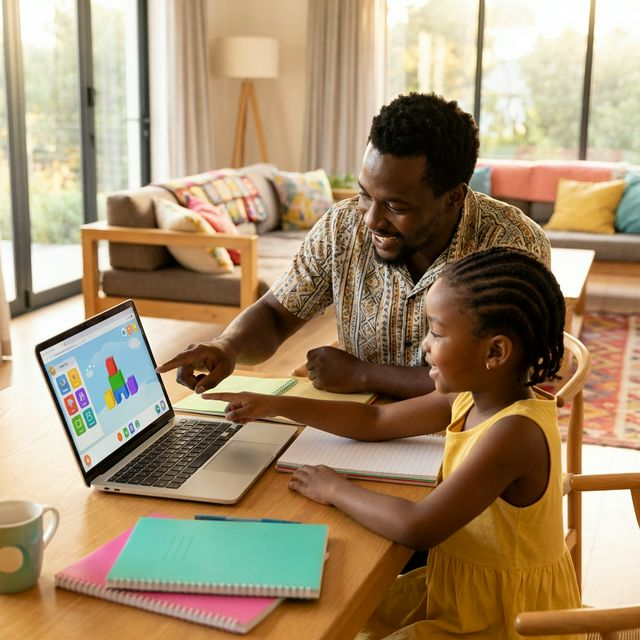
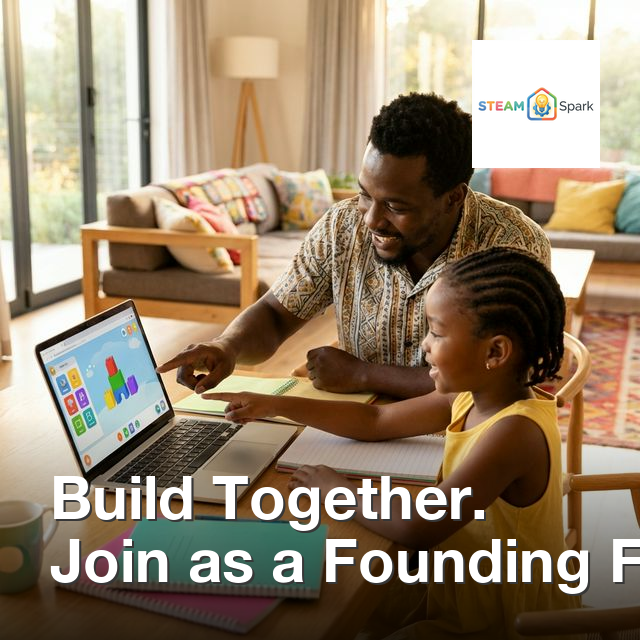
feat: Finalize branded social media assets as primary files

diff --git a/scripts/generate_social_assets.py b/scripts/generate_social_assets.py
@@ -4,14 +4,15 @@ from PIL import Image, ImageDraw, ImageFont
 # Configuration
 ASSET_DIR = "marketing/spark_100_campaign/assets"
 LOGO_PATH = os.path.join(ASSET_DIR, "steam_spark_logo.png")
-OUTPUT_SUFFIX = "_social"
 
-# Text Mappings
+# Text Mappings (Base Name -> Text)
+# Input file will be {base_name}_raw.png
+# Output file will be {base_name}.png
 ASSETS = {
-    "co_creation_hero.png": "Build Together.\nJoin as a Founding Family.",
-    "future_impact_hero.png": "Engineering Her Future\nwith STEAM Spark.",
-    "curiosity_science_hero.png": "Igniting the Spark\nof Curiosity.",
-    "family_pride_hero.png": "See Their Progress.\nShare Their Pride."
+    "co_creation_hero": "Build Together.\nJoin as a Founding Family.",
+    "future_impact_hero": "Engineering Her Future\nwith STEAM Spark.",
+    "curiosity_science_hero": "Igniting the Spark\nof Curiosity.",
+    "family_pride_hero": "See Their Progress.\nShare Their Pride."
 }
 
 def generate_assets():
@@ -34,15 +35,20 @@ def generate_assets():
             font = ImageFont.load_default()
             print("Warning: collaborative font not found, using default.")
 
-    for filename, text in ASSETS.items():
-        image_path = os.path.join(ASSET_DIR, filename)
+    for base_name, text in ASSETS.items():
+        input_filename = f"{base_name}_raw.png"
+        output_filename = f"{base_name}.png"
+        
+        image_path = os.path.join(ASSET_DIR, input_filename)
+        output_path = os.path.join(ASSET_DIR, output_filename)
+        
         if not os.path.exists(image_path):
-            print(f"Skipping missing asset: {filename}")
+            print(f"Skipping missing asset: {input_filename}")
             continue
 
-        print(f"Processing {filename}...")
+        print(f"Processing {base_name}...")
         
-        # Open Base Image
+        # Open Base Reference Image (Raw)
         base_img = Image.open(image_path).convert("RGBA")
         width, height = base_img.size
 
@@ -69,7 +75,7 @@ def generate_assets():
         draw_ctx.text((text_x + shadow_offset, text_y + shadow_offset), text, font=font, fill=(0, 0, 0, 200))
         draw_ctx.text((text_x, text_y), text, font=font, fill=(255, 255, 255, 255))
 
-        # Draw Logo (Top Right or Bottom Right)
+        # Draw Logo (Top Right)
         # Resize logo to reasonable size (e.g., 20% of width)
         logo_target_width = int(width * 0.2)
         logo_ratio = logo.height / logo.width
@@ -82,9 +88,7 @@ def generate_assets():
         logo_y = 40
         out_img.paste(resized_logo, (logo_x, logo_y), resized_logo)
 
-        # Save
-        output_filename = filename.replace(".png", f"{OUTPUT_SUFFIX}.png")
-        output_path = os.path.join(ASSET_DIR, output_filename)
+        # Save as main filename
         out_img.save(output_path)
         print(f"Saved {output_filename}")
 

diff --git a/marketing/spark_100_campaign/assets/asset_guide.md b/marketing/spark_100_campaign/assets/asset_guide.md
@@ -2,10 +2,10 @@
 
 This folder contains visual assets designed to support the "Impact & Co-creation" marketing strategy. 
 
-**✨ READY TO POST:** The files ending in `_social.png` already have the STEAM Spark logo and strategic text overlaid. Use these for immediate social media posting.
+**✨ READY TO POST:** The files in this folder (`co_creation_hero.png`, etc.) are now fully branded with the STEAM Spark logo in the top-right and strategic text overlaid.
 
-## 1. Co-creation Hero (`co_creation_hero_social.png`)
-![Co-creation Hero Social](co_creation_hero_social.png)
+## 1. Co-creation Hero (`co_creation_hero.png`)
+![Co-creation Hero](co_creation_hero.png)
 
 **Theme:** "Build Together" / Collaboration
 **Visual:** Ghanaian father and daughter engaged with a laptop, smiling and pointing.
@@ -14,8 +14,8 @@ This folder contains visual assets designed to support the "Impact & Co-creation
 - **Goal:** Show parents that they are active participants, not just customers.
 - **Channels:** LinkedIn posts, Email Headers (Welcome Sequence).
 
-## 2. Future Impact Hero (`future_impact_hero_social.png`)
-![Future Impact Hero Social](future_impact_hero_social.png)
+## 2. Future Impact Hero (`future_impact_hero.png`)
+![Future Impact Hero](future_impact_hero.png)
 
 **Theme:** "Future Ready" / Empowerment
 **Visual:** Close-up of a young girl focused on building a robotics/electronics project.
@@ -24,8 +24,8 @@ This folder contains visual assets designed to support the "Impact & Co-creation
 - **Goal:** Highlight the tangible skills and confidence children gain.
 - **Channels:** Instagram Ads, Facebook Ads (Retargeting).
 
-## 3. Family Pride Hero (`family_pride_hero_social.png`)
-![Family Pride Hero Social](family_pride_hero_social.png)
+## 3. Family Pride Hero (`family_pride_hero.png`)
+![Family Pride Hero](family_pride_hero.png)
 
 **Theme:** "Visible Progress" / Joy
 **Visual:** Mother showing child's tablet achievement to a grandparent/friend.
@@ -34,8 +34,8 @@ This folder contains visual assets designed to support the "Impact & Co-creation
 - **Goal:** Appeal to the desire for shared family success and tracking progress.
 - **Channels:** WhatsApp Status, Community Group Posts.
 
-## 4. Curiosity Science Hero (`curiosity_science_hero_social.png`)
-![Curiosity Science Hero Social](curiosity_science_hero_social.png)
+## 4. Curiosity Science Hero (`curiosity_science_hero.png`)
+![Curiosity Science Hero](curiosity_science_hero.png)
 
 **Theme:** "Igniting Spark" / Wonder
 **Visual:** Young boy looking with wonder at a science experiment.
